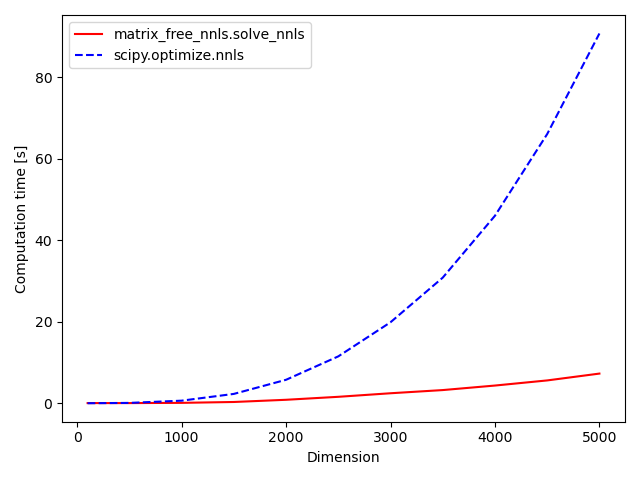
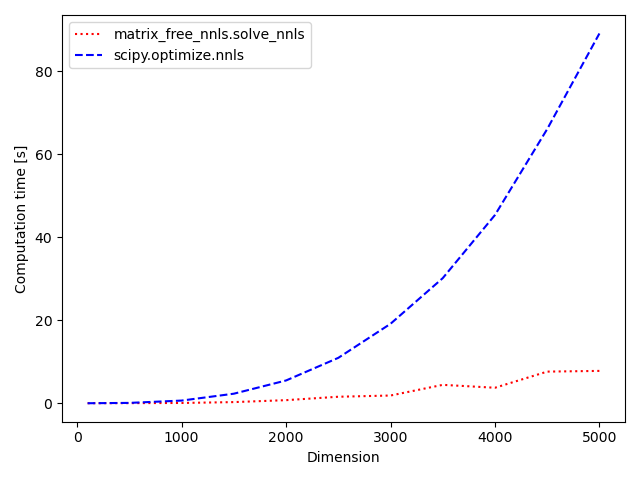
Finished examples 0, 1 and 2. Example 3 coming 'soon'.

diff --git a/matrix_free_nnls/solve_nnls.py b/matrix_free_nnls/solve_nnls.py
@@ -4,13 +4,18 @@ Created by Fabian on 06.11.2022.
 
 from math import sqrt
 import numpy as np
-from scipy.sparse.linalg import LinearOperator
+from scipy.sparse.linalg import LinearOperator, aslinearoperator
+from scipy.linalg.interpolative import estimate_spectral_norm
 from typing import Tuple, Union
 
+from time import sleep
 
-def solve_nnls(a: Union[np.array, LinearOperator], b: np.array, with_restart: bool = False, max_iter: int = 1000,
-               x0: np.array = None, verbose: bool = False)\
-        -> Tuple[np.array, np.array]:
+CTOL = 1e-10
+
+
+def solve_nnls(a: Union[np.array, LinearOperator], b: np.array, with_restart: bool = True, atanorm: float = None,
+               max_iter: int = 3000, x0: np.array = None, gtol: float = 1e-10, alpha0: float = 0.9,
+               verbose: bool = False) -> Tuple[np.array, np.array]:
     """
     Solves non-negative least-squares problem
         minimize || A x - b ||_2^2 subject to x >= 0
@@ -28,17 +33,27 @@ def solve_nnls(a: Union[np.array, LinearOperator], b: np.array, with_restart: bo
 
     Parameters
     ----------
-    a :
+    a : shape (M, N)
         The design matrix. It can either be provided as `numpy.ndarray` or as `scipy.sparse.linalg.LinearOperator`,
         in which case only the forward and adjoint action have to be implemented.
     b : shape (M, )
         The regressand. Its dimension M must equal `a.shape[0]`.
-    max_iter : int, optional
+    with_restart: bool
+        If True, restarts the iteration if the objective increases.
+    atanorm : float
+        Guess for ||A.T A||. A good guess can significantly speed up convergence.
+        If it is not provided, it is estimated using `scipy.linalg.interpolative.estimate_spectral_norm`.
+    max_iter : int
         The maximum number of iterations.
     x0 : shape (N, ), optional
         Initial guess for the minimizer.
-    scale : float, optional
-        The value of ||A.T A||. Can speed up convergence if provided.
+    gtol : float
+        The tolerance for the projected gradient. The iteration is stopped once the l1-norm of the projected gradient
+        is less or equal 'gtol * M * N'.
+    alpha0 : float
+        The starting value for alpha. Must be between 0 and 1.
+    verbose : bool
+        If True, information is printed to the console during the iteration.
 
     Returns
     -------
@@ -60,25 +75,103 @@ def solve_nnls(a: Union[np.array, LinearOperator], b: np.array, with_restart: bo
         raise ValueError(f"The initial guess 'x0' must have shape ({n}, ).")
     if not (isinstance(max_iter, int) and max_iter >= 1):
         raise ValueError(f"'max_iter' must be an integer greater or equal 1.")
+    # If A is given as a dense matrix, we create a LinearOperator.
+    if isinstance(a, np.ndarray):
+        a_op = aslinearoperator(a)
+    else:
+        a_op = a
+    if atanorm is None:
+        # If 'atanorm' is not provided, we estimate it using the power iteration.
+        ata_matvec = lambda x : a_op.rmatvec(a_op.matvec(x))
+        ata_op = LinearOperator(shape=(n, n), matvec=ata_matvec, rmatvec=ata_matvec)
+        atanorm = estimate_spectral_norm(ata_op)
 
+    # Select APGD with or without restart.
+    if with_restart:
+        x, res = apgd_with_restart(a=a_op, b=b, max_iter=max_iter, x0=x0, atanorm=atanorm, gtol=gtol, alpha0=alpha0,
+                                   verbose=verbose)
+    else:
+        x, res = apgd(a=a_op, b=b, max_iter=max_iter, x0=x0, atanorm=atanorm, gtol=gtol, alpha0=alpha0, verbose=verbose)
+
+    return x, res
+
+
+def apgd(a: LinearOperator, b: np.array, max_iter: int, x0: np.array, atanorm: float, gtol: float,
+         alpha0: float, verbose: bool) -> Tuple[np.array, np.array]:
     # Initialize variables
     y = x0
     x_old = x0
     x = x0
-    alpha_old = 0.9
-    ata = a.T @ a
-    s = np.linalg.norm(ata)
-    theta_1 = np.identity(n) - ata / s
-    theta_2 = a.T @ b / s
+    alpha_old = alpha0
+    s = atanorm
+    theta_1 = LinearOperator(shape=(x0.size, x0.size), matvec=(lambda x : x - a.rmatvec(a.matvec(x)) / s))
+    theta_2 = a.rmatvec(b) / s
     # Start the iteration.
     for k in range(max_iter):
-        if verbose: print(f"Iteration {k + 1}/{max_iter}", end="")
-        x = (theta_1 @ y + theta_2).clip(min=0.)
+        if verbose: print("\r", end="")
+        if verbose: print(f"Iteration {k + 1}/{max_iter}.   ", end="")
+        x = (theta_1.matvec(y) + theta_2).clip(min=0.)
+        if _is_converged(a, x, atanorm * theta_2, gtol):
+            if verbose: print(f"Convergence achieved, projected gradient below gtol={gtol}.")
+            break
         alpha = 0.5 * (sqrt(alpha_old ** 4 + 4 * alpha_old ** 2) - alpha_old ** 2)
         beta = alpha_old * (1 - alpha_old) / (alpha_old ** 2 + alpha)
         y = x + beta * (x - x_old)
         x_old = x
         alpha_old = alpha
+    res = a @ x - b
+    return x, res
+
+
+def apgd_with_restart(a: LinearOperator, b: np.array, max_iter: int, x0: np.array, atanorm: float, gtol: float,
+                      alpha0: float, verbose: bool) -> Tuple[np.array, np.array]:
+    # Initialize variables
+    y = x0
+    x_old = x0
+    x = x0
+    res = a.matvec(x) - b
+    rnorm_old = np.linalg.norm(res)
+    alpha_old = alpha0
+    s = atanorm
+    theta_1 = LinearOperator(shape=(x0.size, x0.size), matvec=(lambda x: x - a.rmatvec(a.matvec(x)) / s))
+    theta_2 = a.rmatvec(b) / s
+    for k in range(max_iter):
         if verbose: print("\r", end="")
-    rnorm = np.linalg.norm(a @ x - b)
-    return x, rnorm
+        if verbose: print(f"Iteration {k + 1}/{max_iter}. Objective: {rnorm_old}.   ", end="")
+        x = (theta_1.matvec(y) + theta_2).clip(min=0.)
+        res = a.matvec(x) - b
+        rnorm = np.linalg.norm(res)
+        if not np.isfinite(rnorm):
+            raise RuntimeError("Infinite objective. Try to re-run with increased 'scale'.")
+        # Check convergence.
+        if _is_converged(a, x, atanorm * theta_2, gtol):
+            if verbose: print(f"Convergence achieved, projected gradient below gtol={gtol}.")
+            break
+        # If error increases, we need to restart.
+        if rnorm > rnorm_old:
+            # restart
+            x = (theta_1.matvec(x_old) + theta_2).clip(min=0.)
+            y = x
+            alpha_old = alpha0
+        else:
+            alpha = 0.5 * (sqrt(alpha_old ** 4 + 4 * alpha_old ** 2) - alpha_old ** 2)
+            beta = alpha_old * (1 - alpha_old) / (alpha_old ** 2 + alpha)
+            y = x + beta * (x - x_old)
+            x_old = x
+            alpha_old = alpha
+        rnorm_old = rnorm
+    return x, res
+
+def _is_converged(a, x, atb, gtol):
+    """
+    Convergence is achieved if the projected gradient is zero.
+    """
+    m, n = a.shape
+    # Compute gradient.
+    g = - (a.rmatvec(a.matvec(x)) - atb)
+    # Project gradient
+    g[x <= CTOL] = g[x <= CTOL].clip(min=0.)
+    # Check if ||projected_gradient||_1 <= gtol
+    gnorm = np.linalg.norm(g, ord=1)
+    return (gnorm <= gtol * m * n)
+

diff --git a/examples/ex01_comparison_with_lawson_hanson.py b/examples/ex01_comparison_with_lawson_hanson.py
@@ -14,39 +14,38 @@ from matrix_free_nnls import solve_nnls
 
 
 # Set to True if you want to rerun the numerical test. This takes a few minutes.
-RERUN_COMPUTATIONS = False
-
-import os
-print(os.getcwd())
+RERUN_COMPUTATIONS = True
 
 if RERUN_COMPUTATIONS:
     print("Starting computations.")
     np.random.seed(666)
     n_list = [100, 500, 1000, 1500, 2000, 2500, 3000, 3500, 4000, 4500, 5000]
-    times_mfnnls = []
+    times_apgd = []
+    times_apgdr = []
     times_lh = []
     for n in n_list:
-        print(f"n = {n}.")
+        print(f"n = {n}")
         a = np.random.randn(n, n)
         b = np.random.randn(n)
+        scale = np.linalg.norm(a.T @ a)
         # Solve with 'solve_nnls'.
         t0 = time()
-        x_mfn, res = solve_nnls(a, b)
-        t_mfn = time() - t0
-        times_mfnnls.append(t_mfn)
+        x_agpd, res_apgd = solve_nnls(a, b, verbose=True)
+        t_apgd = time() - t0
+        times_apgd.append(t_apgd)
         # Solve with Lawson-Hanson method.
         t0 = time()
         x_lh, rnorm = nnls(a, b)
         t_lh = time() - t0
         times_lh.append(t_lh)
-    np.save("times_mfnnls.npy", np.array([n_list, times_mfnnls]))
+    np.save("times_apgd.npy", np.array([n_list, times_apgd]))
     np.save("times_lh.npy", np.array([n_list, times_lh]))
 
 # Make plot.
-times_mfnnls = np.load("times_mfnnls.npy")
+times_apgd = np.load("times_apgd.npy")
 times_lh = np.load("times_lh.npy")
 
-plt.plot(times_mfnnls[0], times_mfnnls[1], "r-", label="matrix_free_nnls.solve_nnls")
+plt.plot(times_apgd[0], times_apgd[1], "r:", label="matrix_free_nnls.solve_nnls")
 plt.plot(times_lh[0], times_lh[1], "b--", label="scipy.optimize.nnls")
 plt.xlabel("Dimension")
 plt.ylabel("Computation time [s]")

diff --git a/examples/ex02_no_atanorm_provided.py b/examples/ex02_no_atanorm_provided.py
@@ -1,0 +1,46 @@
+"""
+Created by Fabian on 06.11.2022.
+
+Tests `solve_nnls` in case the user does not provide ||A.T A||.
+Surprisingly, the solver converges much faster if we use the estimate of ||A.T A||.
+Since the power method tends to underestimate the
+"""
+
+import numpy as np
+from scipy.linalg.interpolative import estimate_spectral_norm
+from time import time
+
+from matrix_free_nnls import solve_nnls
+
+
+#np.random.seed(65)
+m = 3000
+n = 3000
+
+a = np.random.randn(m, n)
+b = np.random.randn(m)
+
+atanorm = np.linalg.norm(a.T @ a)
+atanorm_estimate = estimate_spectral_norm(a.T @ a)
+
+print(f"||A.T A|| = {atanorm}")
+print(f"Estimate = {atanorm_estimate}")
+
+# Solve using atanorm.
+t0 = time()
+x_scale, res_scale = solve_nnls(a, b, atanorm=atanorm, verbose=True)
+t_scale = time() - t0
+rnorm_scale = np.linalg.norm(res_scale)
+# Solve without atanorm.
+t0 = time()
+x_noscale, res_noscale = solve_nnls(a, b, verbose=True)
+t_noscale = time() - t0
+rnorm_noscale = np.linalg.norm(res_noscale)
+
+print("Using exact atanorm:")
+print(f"   Computation time: {t_scale}")
+print(f"   Objective : {rnorm_scale}")
+print("Using estimated atanorm:")
+print(f"   Computation time: {t_noscale}")
+print(f"   Objective : {rnorm_noscale}")
+

diff --git a/examples/ex00_basic_test.py b/examples/ex00_basic_test.py
@@ -1,0 +1,44 @@
+"""
+Created by Fabian on 06.11.2022.
+
+Basic test for `nnls_solve`.
+"""
+
+import numpy as np
+from scipy.optimize import nnls
+
+from matrix_free_nnls import solve_nnls
+
+
+np.random.seed(42)
+m = 3000
+n = 1000
+
+a = np.random.randn(m, n)
+b = np.random.randn(m)
+
+atanorm = np.linalg.norm(a.T @ a)
+
+# Solve with 'solve_nnls'.
+x, res = solve_nnls(a, b, with_restart=False, verbose=True)
+rnorm = np.linalg.norm(res)
+# Solve with restart.
+x_restart, res_restart = solve_nnls(a, b, with_restart=True, verbose=True)
+rnorm_restart = np.linalg.norm(res_restart)
+
+# Solve with Lawson-Hanson method.
+x_lh, rnorm_lh = nnls(a, b)
+
+print("solve_nnls:")
+print(f"   Residual {rnorm}.")
+print("solve_nnls (with restart):")
+print(f"   Residual {rnorm_restart}.")
+print("scipy.optimize.nnls:")
+print(f"   Residual {rnorm_lh}.")
+diff = rnorm_lh - rnorm_restart
+if diff > 0:
+    print(f"'solve_nnls' is better by {diff}.")
+elif diff < 0:
+    print(f"'scipy.optimize.nnls' is better by {-diff}.")
+else:
+    print("The computed solutions are equally good.")

diff --git a/examples/ex03_matrix_free.py b/examples/ex03_matrix_free.py
@@ -1,0 +1,8 @@
+"""
+Tests `nnls_solve` when the design matrix is given as scipy.sparse.linalg.LinearOperator.
+As demo case we use the Radon transform with Tikhonov regularization.
+"""
+
+
+
+# Coming soon...

diff --git a/README.md b/README.md
@@ -27,3 +27,7 @@ b = np.random.randn(100)
 
 x, res = solve_nnls(a, b, max_iter=1000)
 ```
+
+Installation
+---
+
